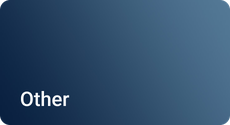
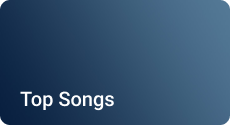
Update genre search
* Use genius charts instead of tag search

* Add "Top Songs" browse category

* Display top songs for the current month

* Significantly improve performance with browse categories

Changed region(s): [[0.0913, 0.72, 0.5174, 0.888]]

diff --git a/src/gui/gui.py b/src/gui/gui.py
@@ -223,8 +223,8 @@ def genre_search(genre_name: str) -> None:
     -------
     None
     """
-    results = player.genre_search(genre_name, 1)
-    populate_search_results(results)
+    results = player.genre_search(genre_name)
+    populate_search_results(results.get("chart_items"), result_dict_key="item")
 
 def fuzzy_search(search_entry: Entry) -> None:
     """
@@ -245,7 +245,7 @@ def fuzzy_search(search_entry: Entry) -> None:
     results = player.fuzzy_search(search_term)
     populate_search_results(results.get("hits"))
 
-def populate_search_results(results: dict) -> None:
+def populate_search_results(results: dict, result_dict_key="result") -> None:
     """
     Populates a list of tracks from genius search results
 
@@ -295,7 +295,7 @@ def populate_search_results(results: dict) -> None:
         ))
 
         # Creates the cover art image from the obtained url
-        cover_art_image = player.create_image(result.get("result").get("header_image_thumbnail_url"), (40, 40))
+        cover_art_image = player.create_image(result.get(result_dict_key).get("header_image_thumbnail_url"), (40, 40))
         if not cover_art_image:
             cover_art_image = PhotoImage(
             file=relative_to_assets("image_49.png"))
@@ -308,7 +308,7 @@ def populate_search_results(results: dict) -> None:
         ))
 
         # Truncates the title and creates track title text on the canvas
-        title = player.Utils.truncate_string(result.get("result").get("title"), 30)
+        title = player.Utils.truncate_string(result.get(result_dict_key).get("title"), 30)
         objs.append(scroll_view_canvas.create_text(
             316.0+82,
             184.99999999999994 + (row * 66),
@@ -320,7 +320,7 @@ def populate_search_results(results: dict) -> None:
         ))
 
         # Truncates the artist name and creates track artist text on the canvas
-        artist = player.Utils.truncate_string(result.get("result").get("artist_names"), 30)
+        artist = player.Utils.truncate_string(result.get(result_dict_key).get("artist_names"), 30)
         objs.append(scroll_view_canvas.create_text(
             590.0+82,
             184.99999999999994 + (row * 66),
@@ -345,7 +345,7 @@ def populate_search_results(results: dict) -> None:
 
         # Binds the track frame elements to playing the track
         for obj in objs:
-            scroll_view_canvas.tag_bind(obj, "<ButtonPress-1>", lambda event, title=result.get("result").get("full_title"), cover_art_url=result.get("result").get("header_image_thumbnail_url"): play_search_track(title, cover_art_url))
+            scroll_view_canvas.tag_bind(obj, "<ButtonPress-1>", lambda event, title=result.get(result_dict_key).get("full_title"), cover_art_url=result.get(result_dict_key).get("header_image_thumbnail_url"): play_search_track(title, cover_art_url))
 
     # Creates a rectangle after the results to allow for more room to scroll
     scroll_view_canvas.create_rectangle(
@@ -475,7 +475,7 @@ def display_search_categories():
         tag="search_categories_element"
     )
 
-    categories = ["rap", "pop", "r-b", "rock", "country", "sports"]
+    categories = ["rap", "pop", "rb", "rock", "country", "all"]
     category_images_list = ["image_56.png", "image_57.png", "image_58.png", "image_59.png", "image_60.png", "image_61.png"]
     category_images_rows = player.Utils.split_list(category_images_list, 3)
 

diff --git a/src/player.py b/src/player.py
@@ -360,28 +360,27 @@ def get_playlist_info(playlist: Playlist) -> str:
     playlist_information = f"{formatted_length}, {formatted_time}"
     return playlist_information
 
-def genre_search(genre_name: str, pages: int=5) -> dict:
+def genre_search(genre: str, time_period: str="month", songs: int=20, results_type: Optional[str]=None) -> dict:
     """
-    Performs a Genius genre tag search and returns a dictionary containing
-    information on the top songs in the genre
+    Returns a dictionary containing information on the top songs in the genre or as a whole for the time period
 
     Parameters
     ----------
-    genre_name : str
-        The genre tag name
-    pages : int
-        The number of pages to search (20 results per page)
+    genre : str
+        The genre of the results ("all", "rap", "pop", "rb", "rock", "country")
+    time_period : str
+        Time period of the results. ("day", "week", "month", or "all_time").
+    songs : int
+        The number of songs to search (max 50)
+    results_type : int, optional
+        The type to get the charts for. The default is songs. ("songs", "albums", "artists" or "referents")
 
     Returns
     -------
     dict
-        A dictionary containing data about the search results
+        A dictionary containing data about the songs
     """
-    results = list()
-    for i in range(pages):
-        for result in genius.tag(genre_name, page=i).get("hits"):
-            track_result = genius.search(result.get("title")).get("hits")[0]
-            results.append(track_result)
+    results = genius.charts(time_period=time_period, chart_genre=genre, per_page=songs)
     return results
 
 def fuzzy_search(search_term: str) -> dict:
